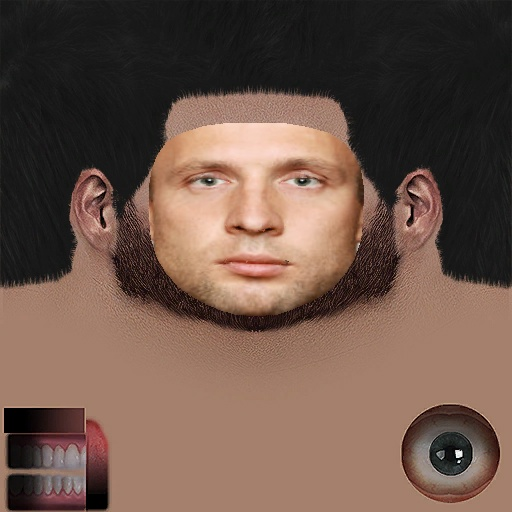
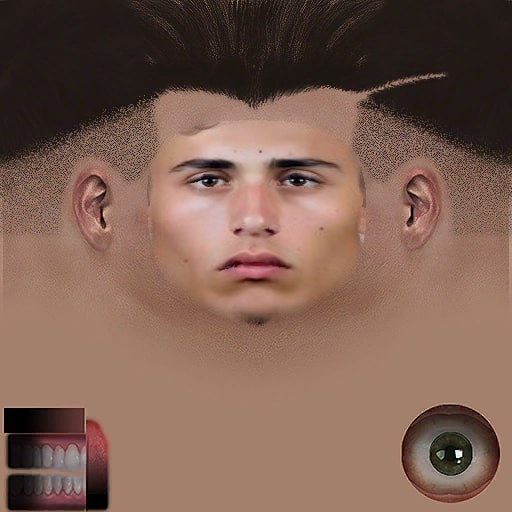
add gussianblur for moother edges and use seamlessclone to blend images

diff --git a/main.py b/main.py
@@ -20,6 +20,7 @@ user_face_path = filedialog.askopenfilename(title="Select Your Face Image",
 skin_face_path = filedialog.askopenfilename(title="Select Skin Face Image",
                                             filetypes=(("Image files", "*.jpg;*.jpeg;*.png;*.bmp;*.jfif"),
                                                        ("All files", "*.*")))
+
 # Load the images
 user_face_image = cv2.imread(user_face_path)
 skin_face_image = cv2.imread(skin_face_path)
@@ -29,7 +30,7 @@ skin_face_image_rgb = cv2.cvtColor(skin_face_image, cv2.COLOR_BGR2RGB)
 
 # Initialize Mediapipe FaceMesh
 mp_face_mesh = mp.solutions.face_mesh
-face_mesh = mp_face_mesh.FaceMesh(static_image_mode=True)
+face_mesh = mp_face_mesh.FaceMesh(static_image_mode=True, max_num_faces=1, min_detection_confidence=0.5)
 
 # Process the images to get landmarks
 user_face_results = face_mesh.process(user_face_image_rgb)
@@ -43,19 +44,16 @@ if not user_face_results.multi_face_landmarks or not skin_face_results.multi_fac
 user_face_landmarks = user_face_results.multi_face_landmarks[0].landmark
 skin_face_landmarks = skin_face_results.multi_face_landmarks[0].landmark
 
-
 # Convert landmarks to numpy array
 def landmarks_to_array(landmarks, image_shape):
     return np.array([(int(landmark.x * image_shape[1]),
                       int(landmark.y * image_shape[0]))
                      for landmark in landmarks])
 
-
 user_face_points = landmarks_to_array(user_face_landmarks, user_face_image.shape)
 skin_face_points = landmarks_to_array(skin_face_landmarks, skin_face_image.shape)
 
-
-# Calculate the Delaunay triangulation for the skin face
+#Delaunay triangulation for the skin face
 def calculate_delaunay_triangles(rect, points):
     subdiv = cv2.Subdiv2D(rect)
     for point in points:
@@ -67,7 +65,6 @@ def calculate_delaunay_triangles(rect, points):
         pt1 = (t[0], t[1])
         pt2 = (t[2], t[3])
         pt3 = (t[4], t[5])
-        # if all points are within the image bounds
         if (rect[0] <= pt1[0] <= rect[0] + rect[2] and
                 rect[1] <= pt1[1] <= rect[1] + rect[3] and
                 rect[0] <= pt2[0] <= rect[0] + rect[2] and
@@ -85,10 +82,8 @@ def calculate_delaunay_triangles(rect, points):
                 delaunay_triangles.append((index[0], index[1], index[2]))
     return delaunay_triangles
 
-
 rect = (0, 0, skin_face_image.shape[1], skin_face_image.shape[0])
 delaunay_triangles = calculate_delaunay_triangles(rect, skin_face_points)
-
 
 # Warp the triangles from user face to skin face
 def apply_affine_transform(src, src_tri, dst_tri, size):
@@ -96,7 +91,6 @@ def apply_affine_transform(src, src_tri, dst_tri, size):
     dst = cv2.warpAffine(src, warp_mat, (size[0], size[1]), None, flags=cv2.INTER_LINEAR,
                          borderMode=cv2.BORDER_REFLECT_101)
     return dst
-
 
 def warp_triangle(img1, img2, t1, t2):
     r1 = cv2.boundingRect(np.float32([t1]))
@@ -123,6 +117,23 @@ def warp_triangle(img1, img2, t1, t2):
 
     img2[y2:y2 + h2, x2:x2 + w2] = img2[y2:y2 + h2, x2:x2 + w2] * (1 - mask) + img2_rect * mask
 
+# Create a mask for the face
+def create_face_mask(image, landmarks):
+    mask = np.zeros(image.shape[:2], dtype=np.uint8)
+    points = np.array([(int(landmark.x * image.shape[1]),
+                        int(landmark.y * image.shape[0]))
+                       for landmark in landmarks])
+    convexhull = cv2.convexHull(points)
+    cv2.fillConvexPoly(mask, convexhull, 255)
+    return mask
+
+# Create masks for user face and skin face
+user_face_mask = create_face_mask(user_face_image, user_face_landmarks)
+skin_face_mask = create_face_mask(skin_face_image, skin_face_landmarks)
+
+# check if the mask is in the correct shape
+if len(skin_face_mask.shape) == 2:
+    skin_face_mask = cv2.cvtColor(skin_face_mask, cv2.COLOR_GRAY2BGR)
 
 # Copy triangle
 img_skin_face = np.copy(skin_face_image_rgb)
@@ -131,17 +142,33 @@ for triangle in delaunay_triangles:
     t2 = [skin_face_points[triangle[0]], skin_face_points[triangle[1]], skin_face_points[triangle[2]]]
     warp_triangle(user_face_image_rgb, img_skin_face, t1, t2)
 
+# Feather the edges of the face mask(more ksize->smoother edges)
+face_mask = cv2.GaussianBlur(skin_face_mask, (101, 101), 5)
+
+# Find the center of the face in the skin image for seamless cloning
+def find_face_center(landmarks):
+    x_coords = [landmark.x for landmark in landmarks]
+    y_coords = [landmark.y for landmark in landmarks]
+    center_x = int(np.mean(x_coords) * skin_face_image.shape[1])
+    center_y = int(np.mean(y_coords) * skin_face_image.shape[0])
+    return (center_x, center_y)
+
+center_point = find_face_center(skin_face_landmarks)
+
+# Blend the images
+result = cv2.seamlessClone(img_skin_face, skin_face_image_rgb, face_mask, center_point, cv2.NORMAL_CLONE)
+
 # Save the final image
 directory = os.path.dirname('Outputs/')
 os.makedirs(directory, exist_ok=True)
 filename = os.path.basename(user_face_path)
 output_filename = "cropped_face_" + filename
-cv2.imwrite(os.path.join(directory, output_filename), cv2.cvtColor(img_skin_face, cv2.COLOR_RGB2BGR))
+cv2.imwrite(os.path.join(directory, output_filename), cv2.cvtColor(result, cv2.COLOR_RGB2BGR))
 
 # Display the final result
 plt.figure(figsize=(10, 10))
-plt.imshow(img_skin_face)
-plt.title("Final Skin Face")
+plt.imshow(result)
+plt.title("Combined Face")
 plt.axis('off')
 plt.show()
 
@@ -150,6 +177,6 @@ if os.path.exists(os.path.join('Images', filename)):
     os.remove(os.path.join('Images', filename))
 
 # Display the result in OpenCV window
-cv2.imshow("Final Skin Face", cv2.cvtColor(img_skin_face, cv2.COLOR_RGB2BGR))
+cv2.imshow("Final Skin Face", cv2.cvtColor(result, cv2.COLOR_RGB2BGR))
 cv2.waitKey(0)
 cv2.destroyAllWindows()
